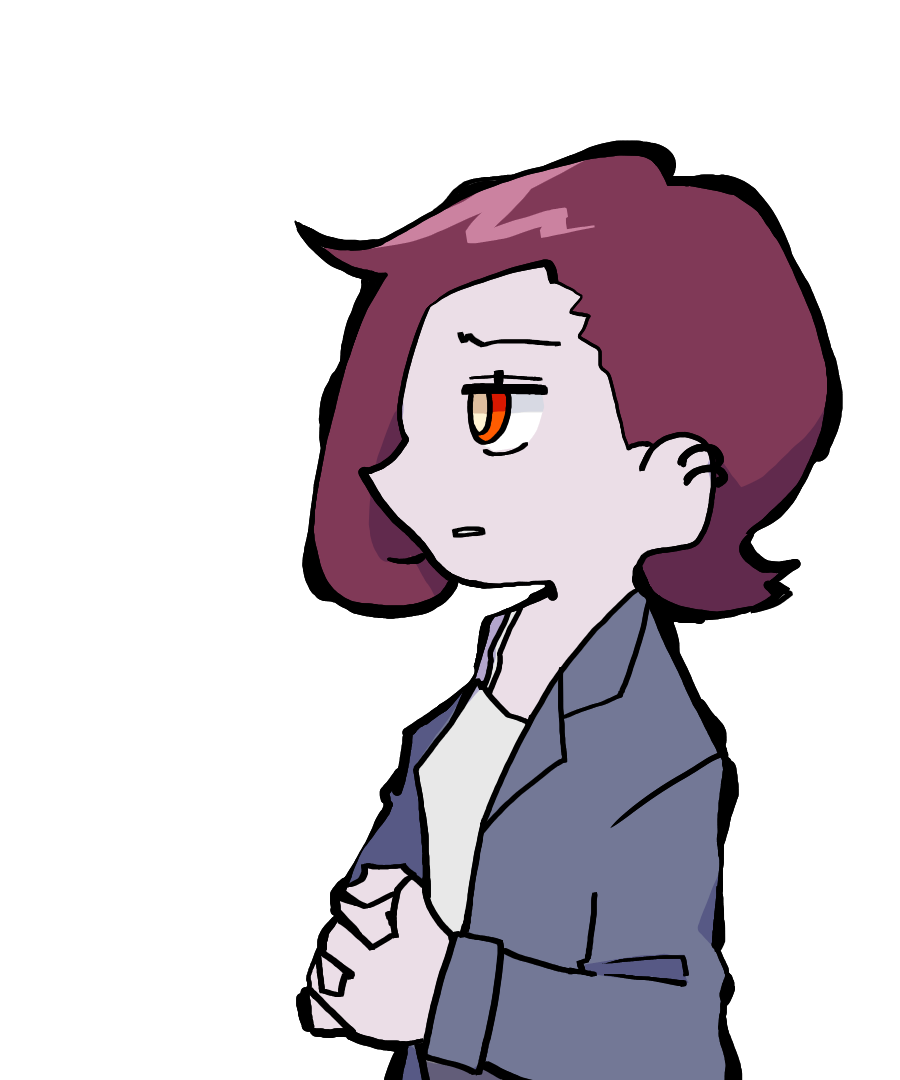
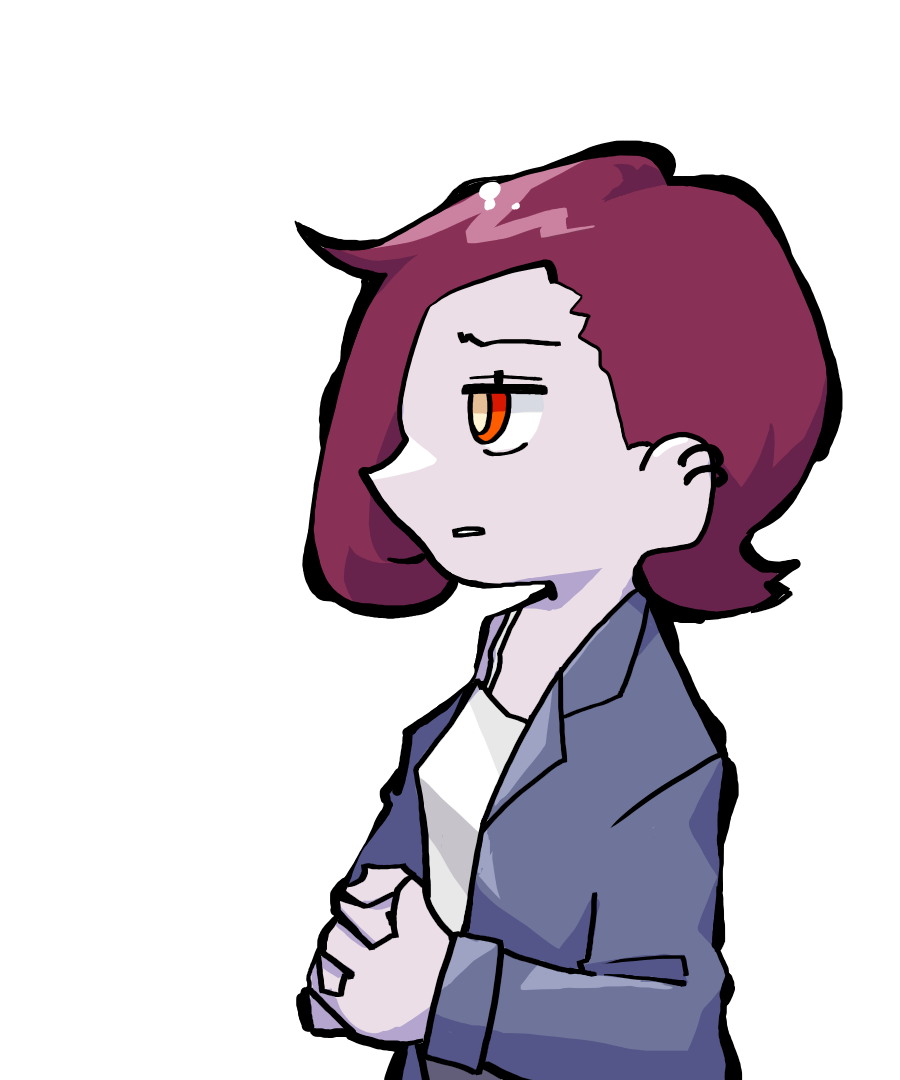
자잘한 수정사항
채원이 이미지 변경
은성넴 이미지 변경
결과창 뽀용뽀용

diff --git a/MidnightStudio/Assets/HDH/Result Chara Poyong.cs b/MidnightStudio/Assets/HDH/Result Chara Poyong.cs
@@ -1,0 +1,27 @@
+using UnityEngine;
+using System.Collections;
+using UnityEditor.Rendering.Universal;
+
+public class ResultCharaPoyong : MonoBehaviour
+{
+    public Obj_Production Obj;
+
+    private void Start()
+    {
+        StartCoroutine(PlayAnime());
+    }
+
+    private IEnumerator PlayAnime()
+    {
+        while (true)
+        {
+            Obj.Move("Smooth", true, 2f, "y", -1.94f, -2.1f);
+            Obj.Scale("Smooth", 2f, new Vector3(0.9275f, 0.9275f, 1f), new Vector3(0.9275f, 0.875f, 1f));
+            yield return new WaitForSeconds(2);
+
+            Obj.Move("Smooth", true, 2f, "y", -2.1f, -1.94f);
+            Obj.Scale("Smooth", 2f, new Vector3(0.9275f, 0.875f, 1f), new Vector3(0.9275f, 0.9275f, 1f));
+            yield return new WaitForSeconds(2f);
+        }
+    }
+}

diff --git a/MidnightStudio/Assets/HDH/Ending/MoviePart Manager.cs b/MidnightStudio/Assets/HDH/Ending/MoviePart Manager.cs
@@ -18,11 +18,11 @@ public class MoviePart_Manager : MonoBehaviour
 
     private void Start()
     {
-        FirstScene.gameObject.SetActive(false);
-        SecondScene.gameObject.SetActive(false);
-        ThirdScene.gameObject.SetActive(false);
-        FourthScene.gameObject.SetActive(false);
-        FifthScene.gameObject.SetActive(false);
+        // FirstScene.gameObject.SetActive(false);
+        // SecondScene.gameObject.SetActive(false);
+        // ThirdScene.gameObject.SetActive(false);
+        // FourthScene.gameObject.SetActive(false);
+        // FifthScene.gameObject.SetActive(false);
 
         if (IsTest == true) { Production_Start(Test_Sequence); }
     }

diff --git a/MidnightStudio/Assets/HDH/Ending/3rd/ThirdScene 1stCut.cs b/MidnightStudio/Assets/HDH/Ending/3rd/ThirdScene 1stCut.cs
@@ -54,6 +54,9 @@ public class ThirdScene_1stCut : MonoBehaviour
 
         Scene_Manager.Shake.Production_Start(15);
 
+        Effect_Obj[2].Move("Lerp", true, 0.5f, "y", 4.18f, 4.36f);
+        Effect_Obj[2].Coloring("Lerp", 1f, new Color(1f, 1f, 1f, 1f), new Color(1f, 1f, 1f, 0f));
+
         Chara_Obj.Rotation("Smooth", 0.15f, new Vector3(0f, 0f, 0f), new Vector3(0f, 0f, -9f));
         Scene_Manager.Fade_Panel.Coloring("Instant", 0f, new Color(0f, 0f, 0f, 1f), new Color(0.98f, 0.46f, 0.14f, 1f));
         Scene_Manager.Fade_Panel.Alpha("Lerp", 0.1f, 1f, 0f);
